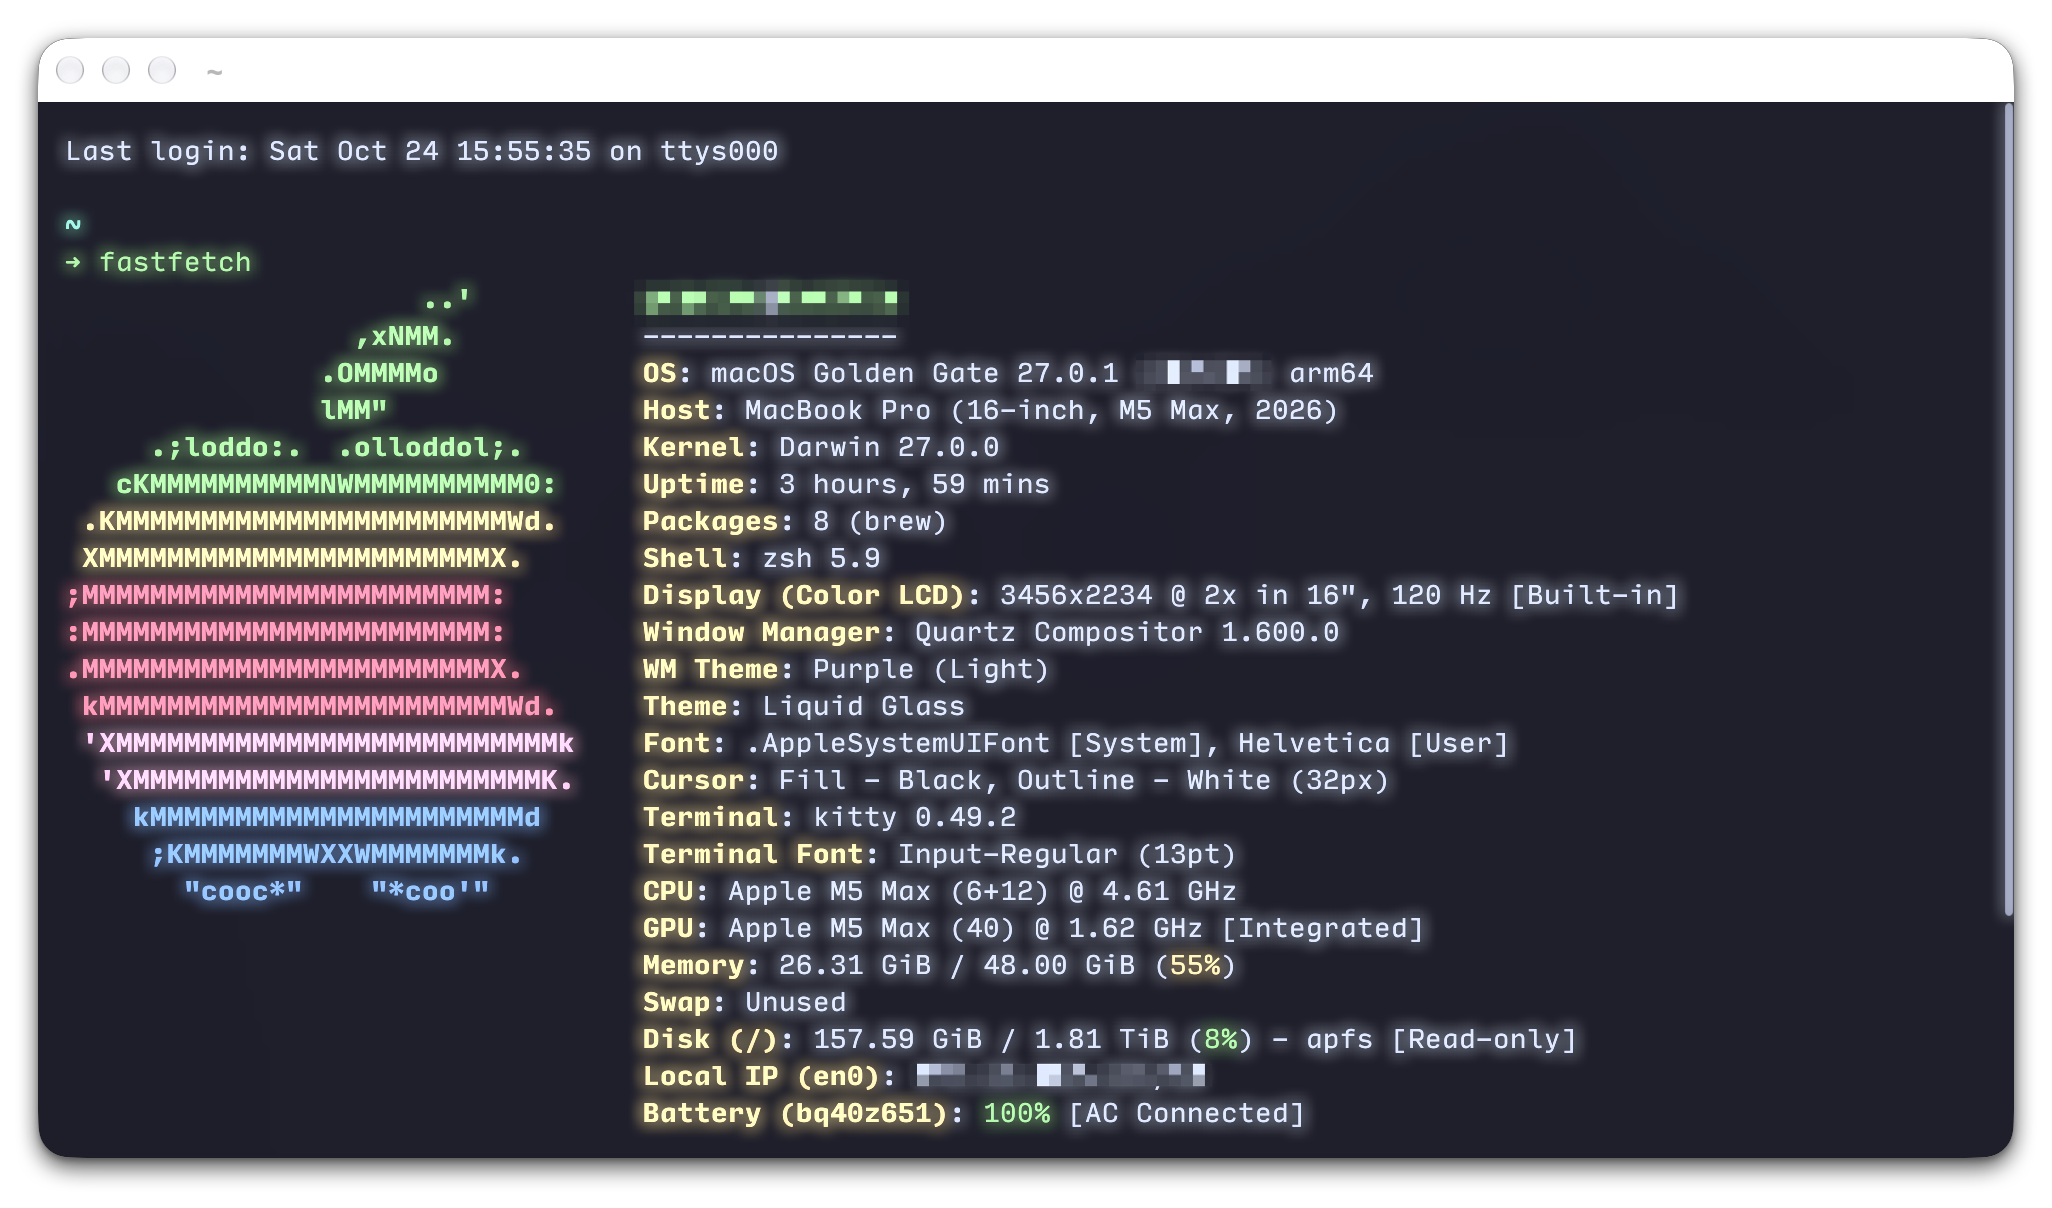
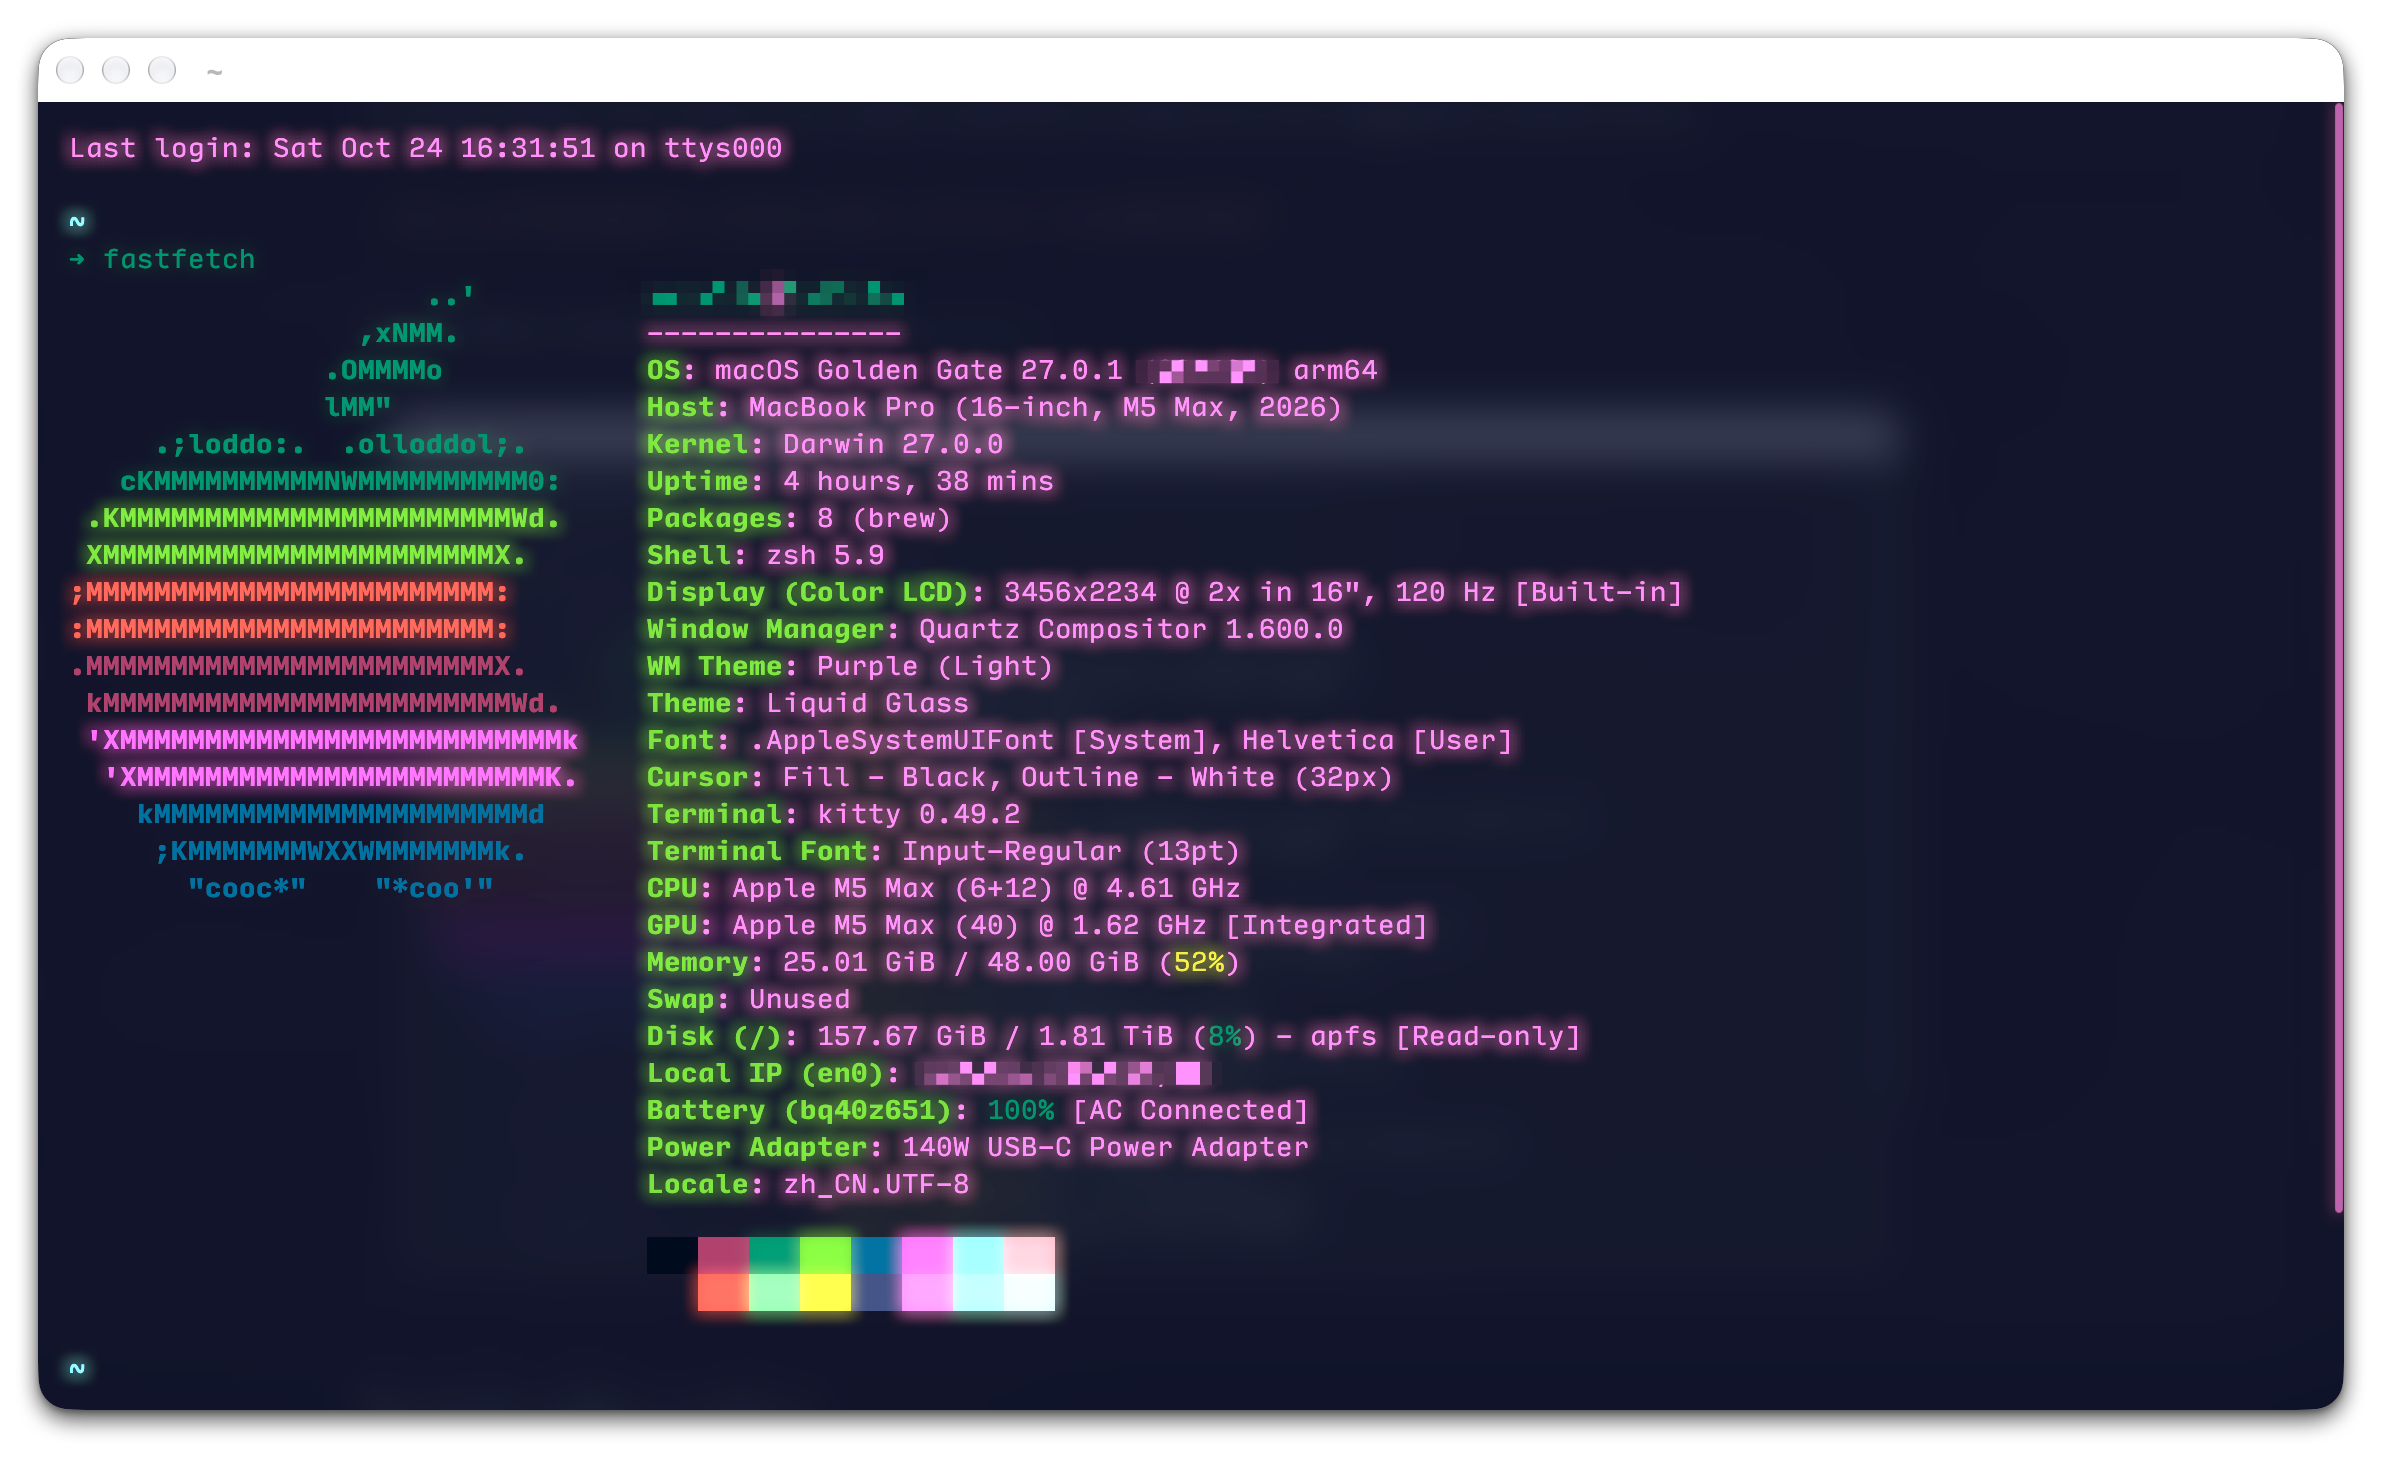
update kitty config.

diff --git a/README.md b/README.md
@@ -35,6 +35,12 @@ My `cargo install` tools:
 
 I'm using [kitty](https://github.com/kovidgoyal/kitty), config [here](./kitty/kitty.conf).
 
+If using tropical neon theme, you need to add this to make your zsh-suggestion clearly shows.
+
+```bash
+ZSH_AUTOSUGGEST_HIGHLIGHT_STYLE='fg=#6b78b8'
+```
+
 This config is using custom shader, see [shaders](./kitty/shaders/README.md).
 
 ![kitty](./assets/kitty.png)
